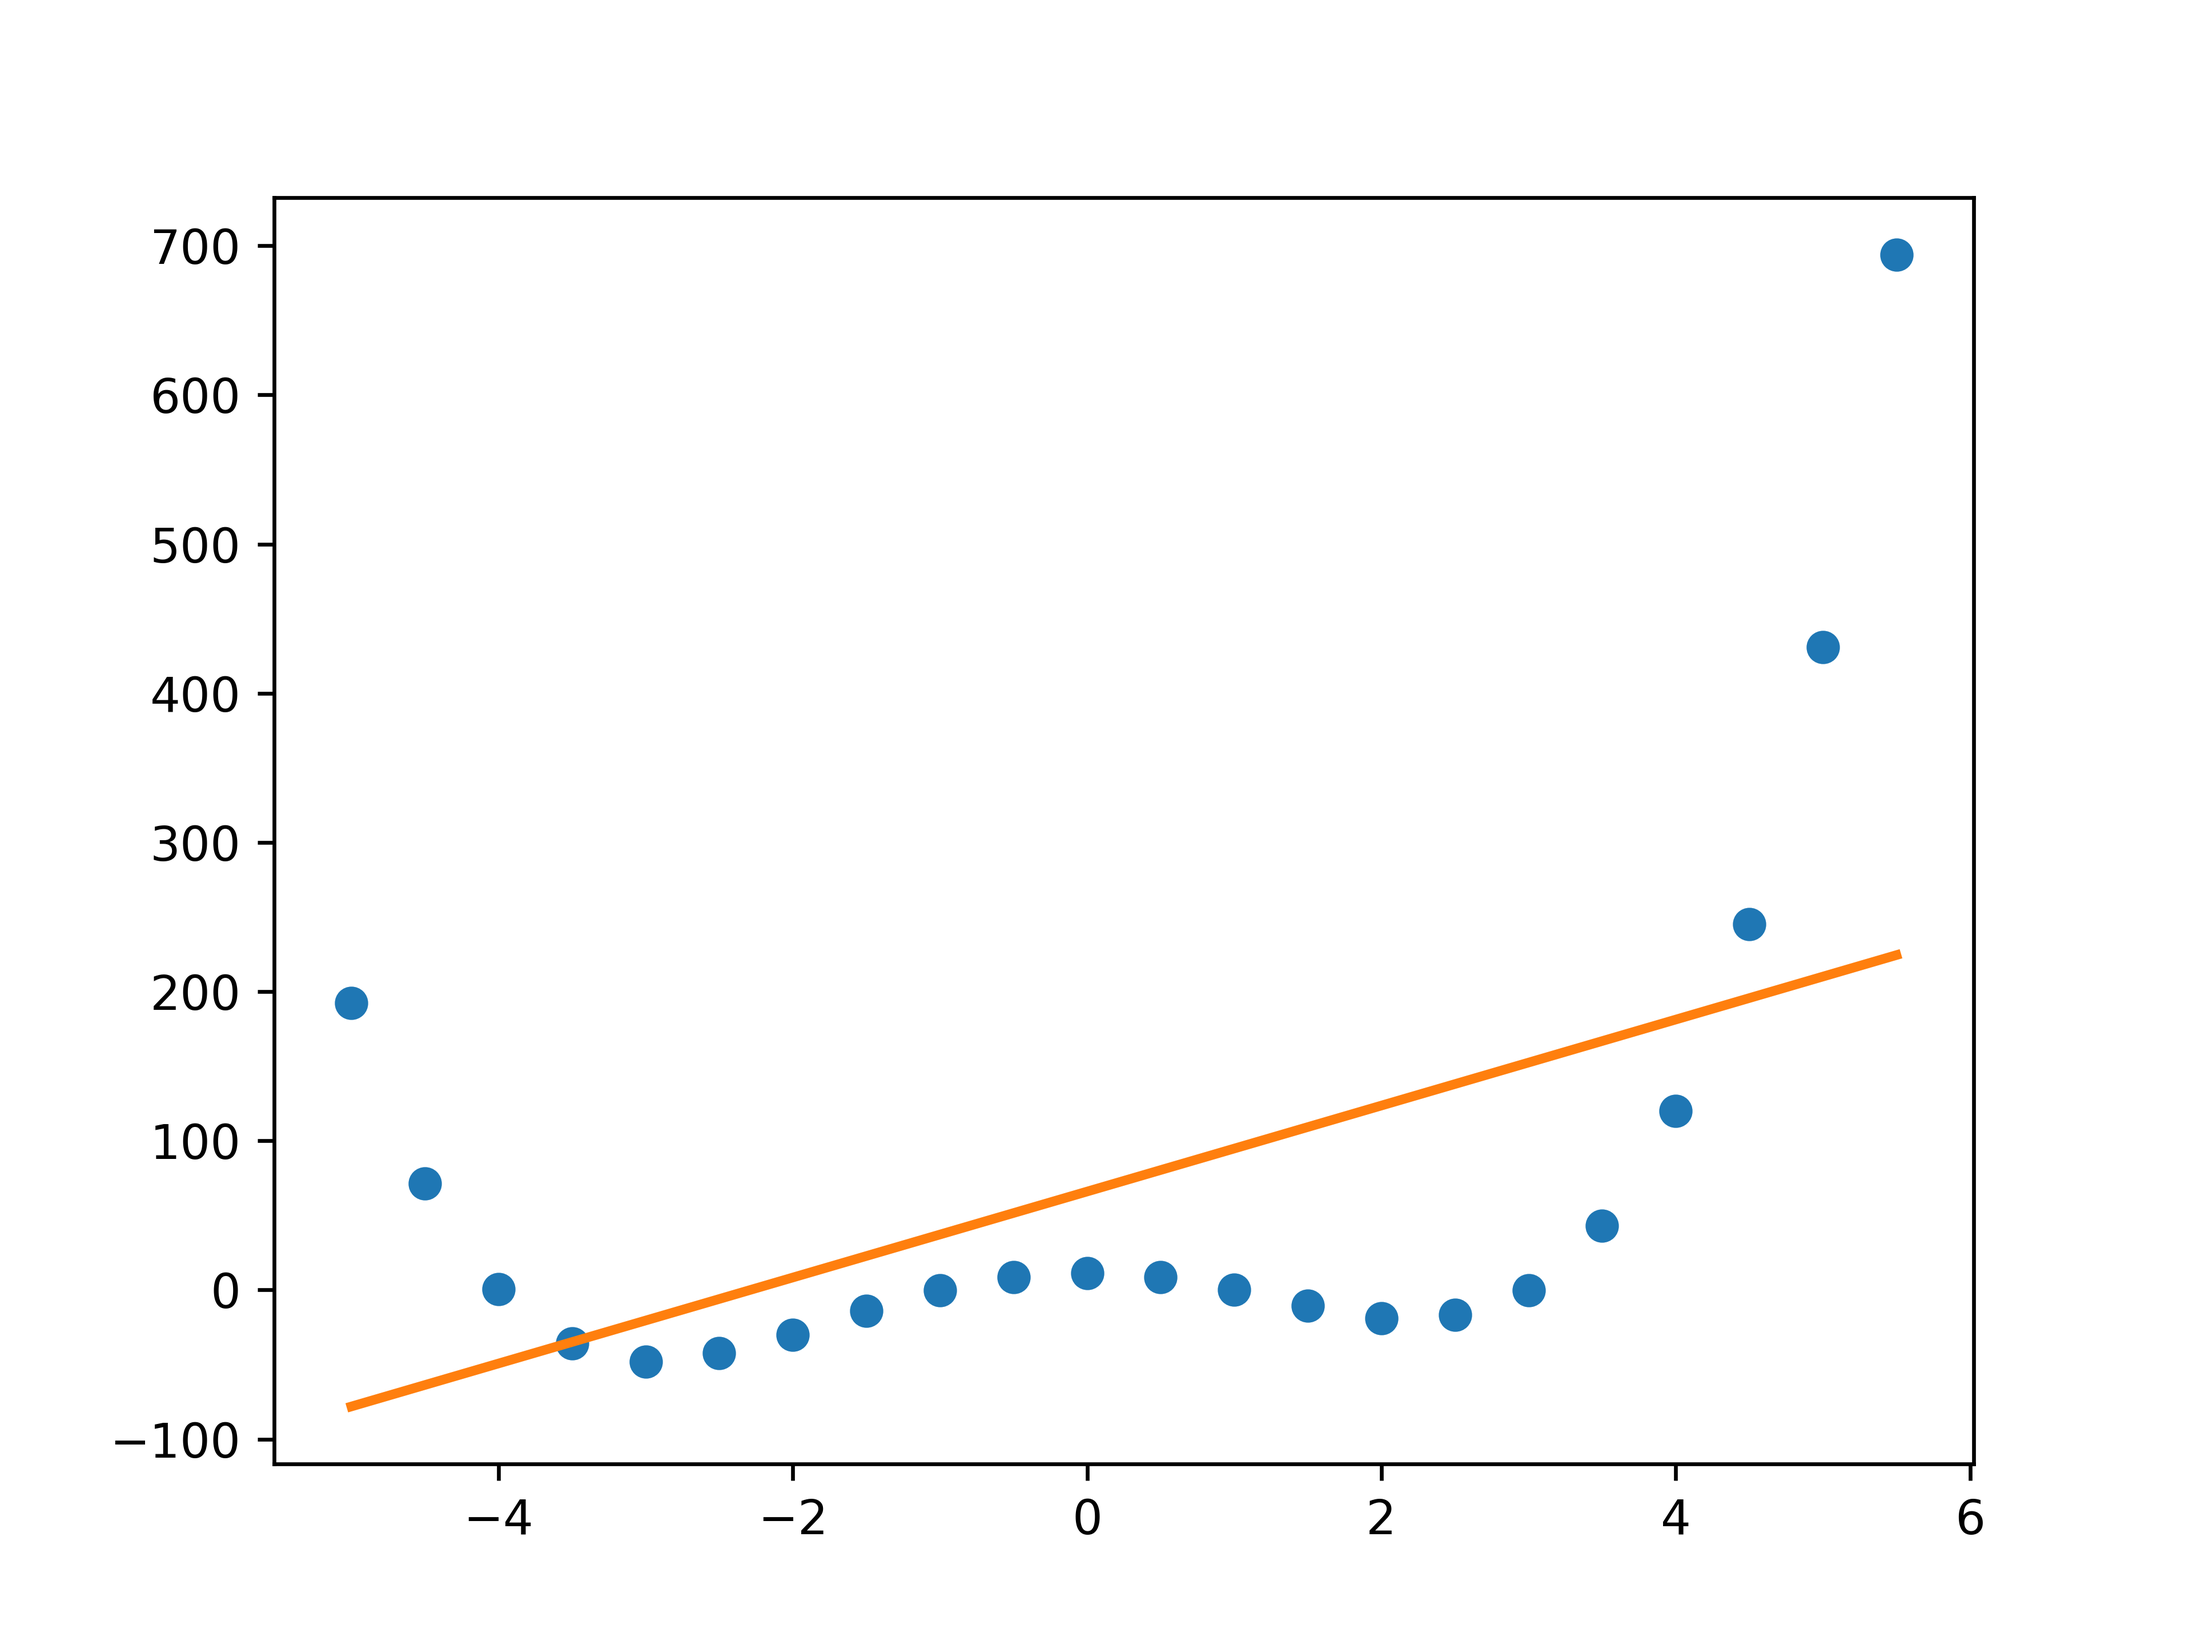
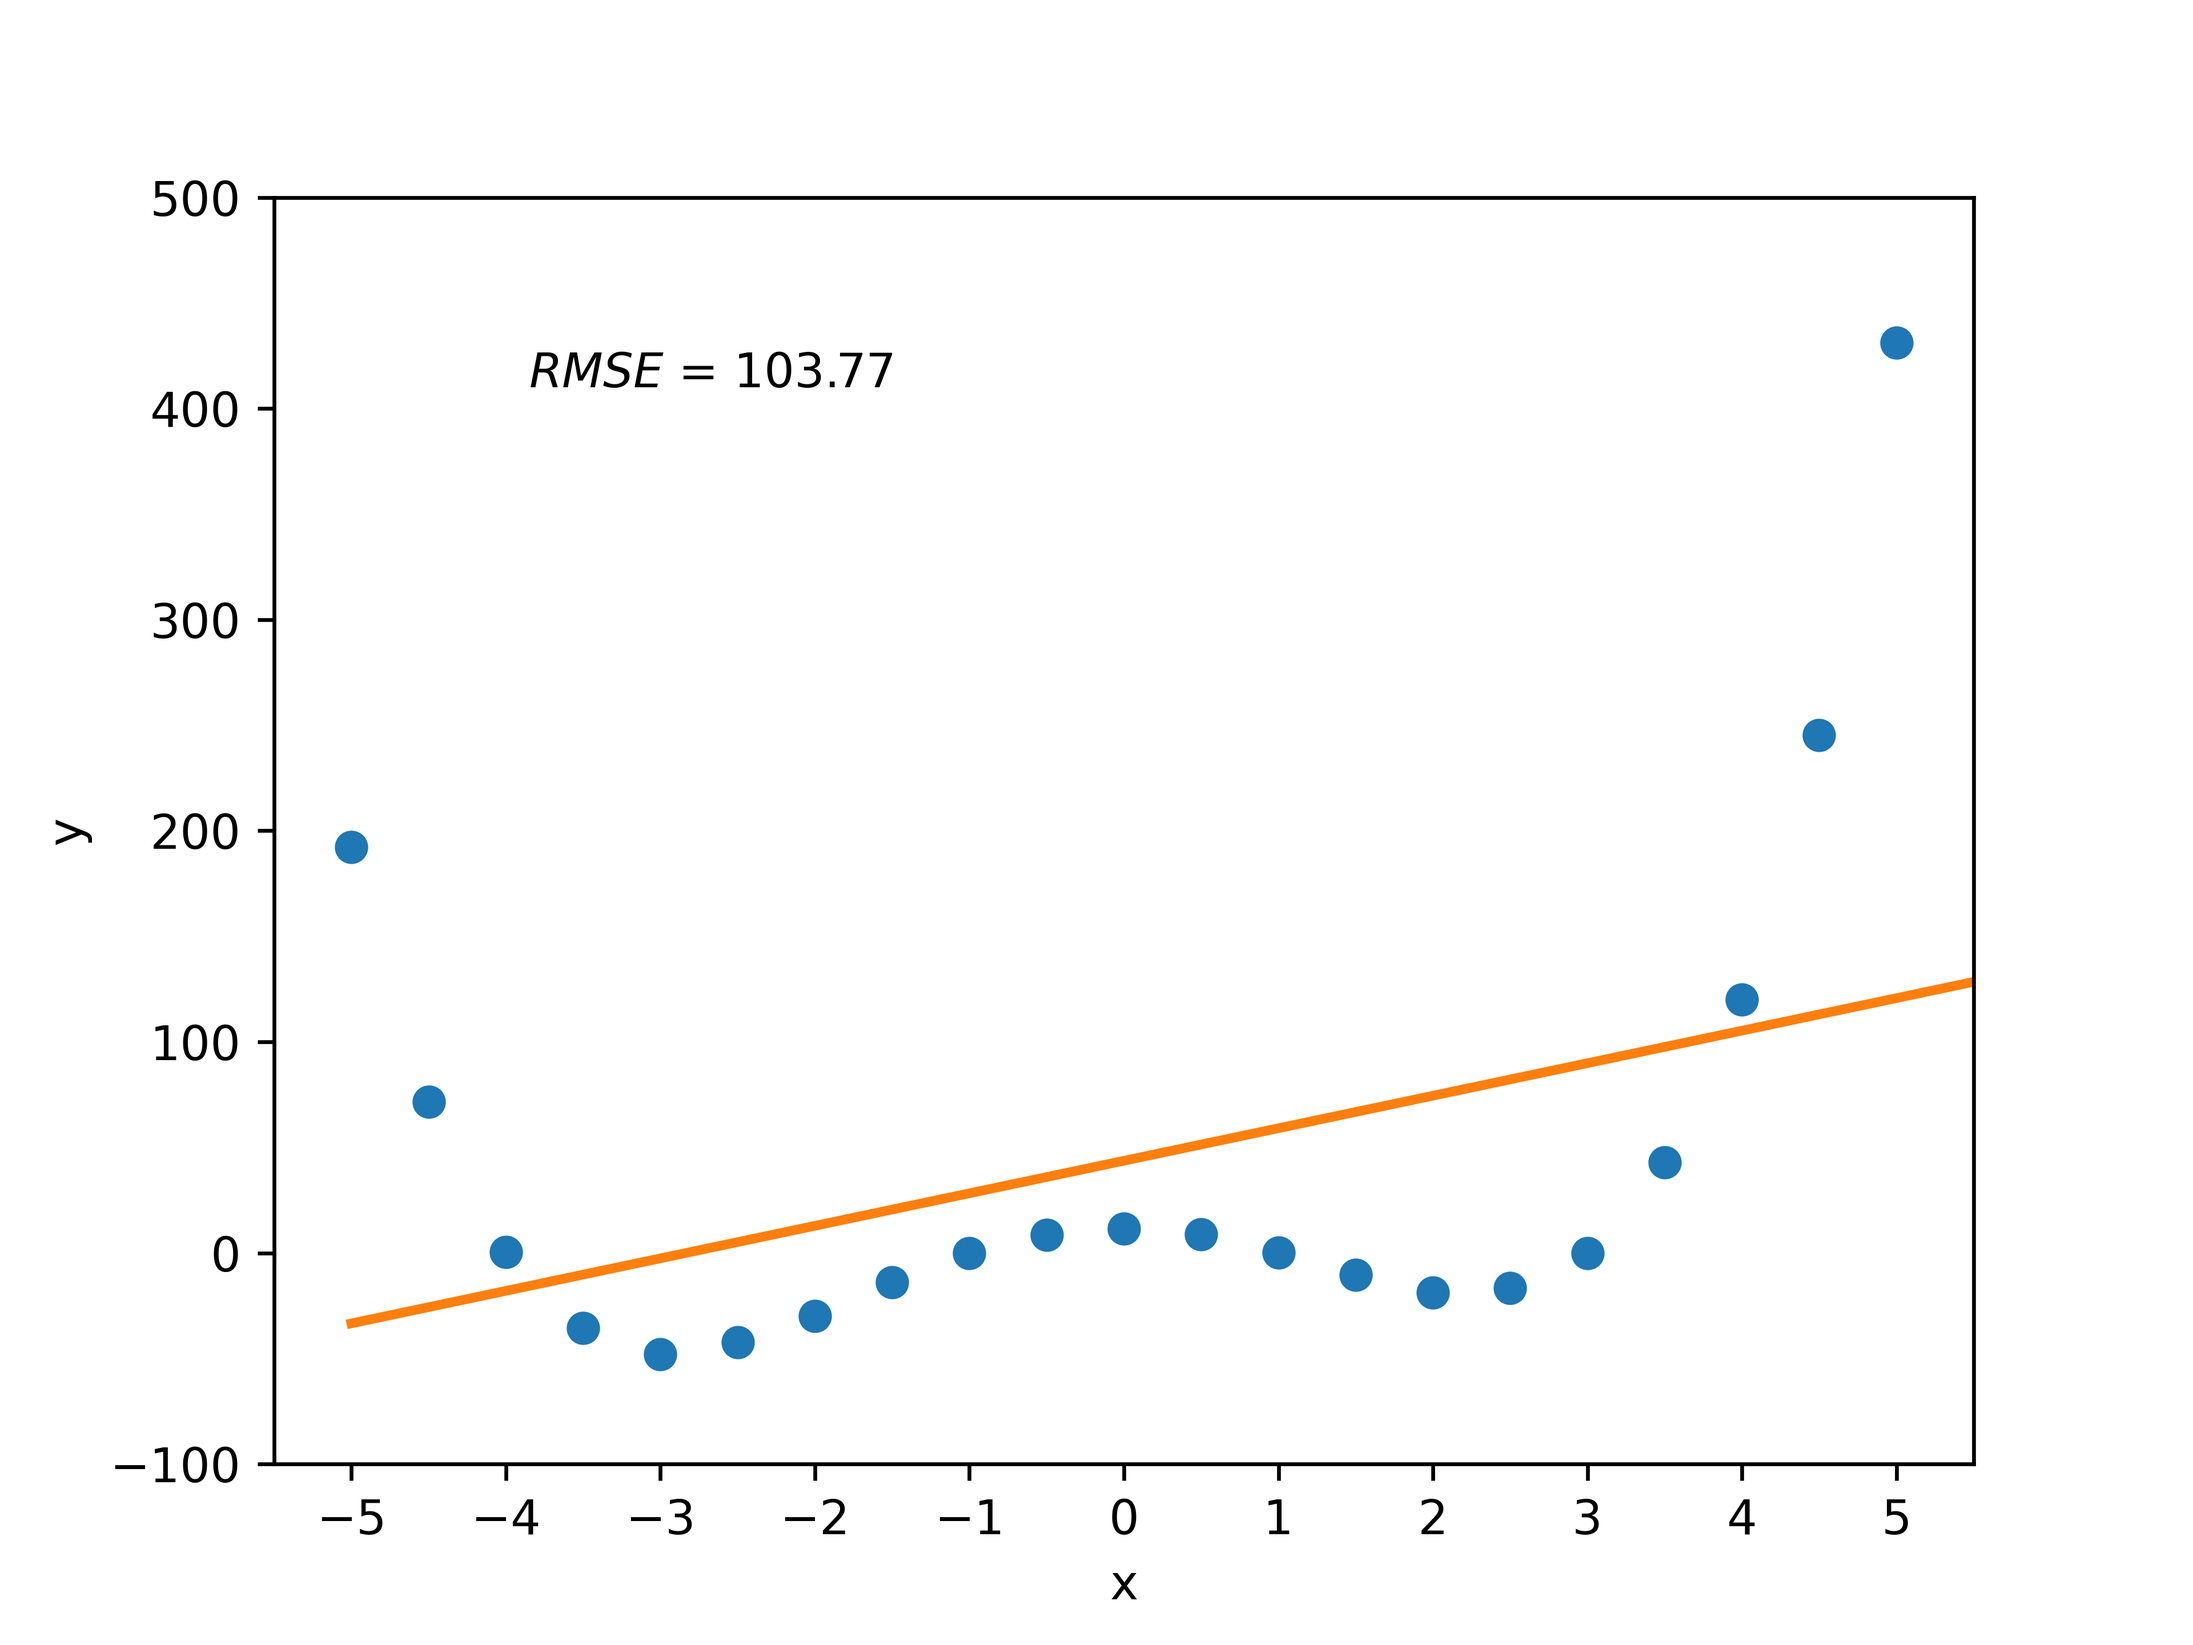
Update code and Figure 2

diff --git a/new_code2.py b/new_code2.py
@@ -12,17 +12,17 @@ from sklearn.metrics import mean_squared_error, r2_score
 list_x = []
 list_y = []
 list_x_pred = []
-random.seed(19)
-# Create database with 11 points following quasi-lienar relation in interval x:[-5,5]
-for i in range(-5,6):
-    x = i
-    rnd_number = random.uniform(-2,2)
-    y = x + rnd_number
+random.seed(2020)
+# Create database with 21 points following quasi-lienar relation in interval x:[-5,5]
+for i in range(-10,11):
+    x = i/2
+    rnd_number= random.uniform(-1,1)
+    y = (x+4)*(x+1)*(x-1)*(x-3) + rnd_number
     list_x.append(x)
     list_y.append(y)
     print(x,y)
-# Create list with 1010 points in interval x:[-5,5]
-for i in range(-50,51):
+# Create list with 1060 points in interval x:[-5,5]
+for i in range(-50,56):
     x = 0.1*i
     list_x_pred.append(x)
 # Transform lists to np arrays
@@ -31,9 +31,9 @@ list_x_pred = np.array(list_x_pred).reshape(-1, 1)
 # Do linear regression using database with 11 points
 regr = linear_model.LinearRegression()
 regr.fit(list_x,list_y)
-# Calculate value of linear regressor at 101 points in interval x:[-5,5]
+# Calculate value of linear regressor at 1060 points in interval x:[-5,5]
 list_y_pred = regr.predict(list_x_pred)
-# Calculate value of linear regressor at 11 points in interval x:[-5,5]
+# Calculate value of linear regressor at 21 points in interval x:[-5,5]
 new_y = regr.predict(list_x)
 # Print rmse value
 rmse = math.sqrt(mean_squared_error(new_y, list_y))
@@ -42,9 +42,9 @@ print('Root Mean Squared Error: %.2f' % rmse)
 fig = plt.figure()
 ax = fig.add_subplot()
 ax.set_xlim(-5.5,5.5)
-ax.set_ylim(-5.5,5.5)
+ax.set_ylim(-100,500)
 ax.xaxis.set_ticks(range(-5,6))
-ax.yaxis.set_ticks(range(-5,6))
+ax.yaxis.set_ticks(range(-100,600,100))
 ax.set_xlabel('x')
 ax.set_ylabel('y')
 ax.annotate(u'$RMSE$ = %.2f' % rmse, xy=(0.15,0.85), xycoords='axes fraction')
@@ -53,6 +53,6 @@ plt.plot(list_x_pred,list_y_pred,color='C1',linestyle='solid',linewidth=2)
 # Plot as blue points the original database
 plt.scatter(list_x, list_y,color='C0')
 # Print plot to file
-file_name='Figure_1.png'
+file_name='Figure_2.png'
 plt.savefig(file_name,format='png',dpi=600)
 plt.close()
